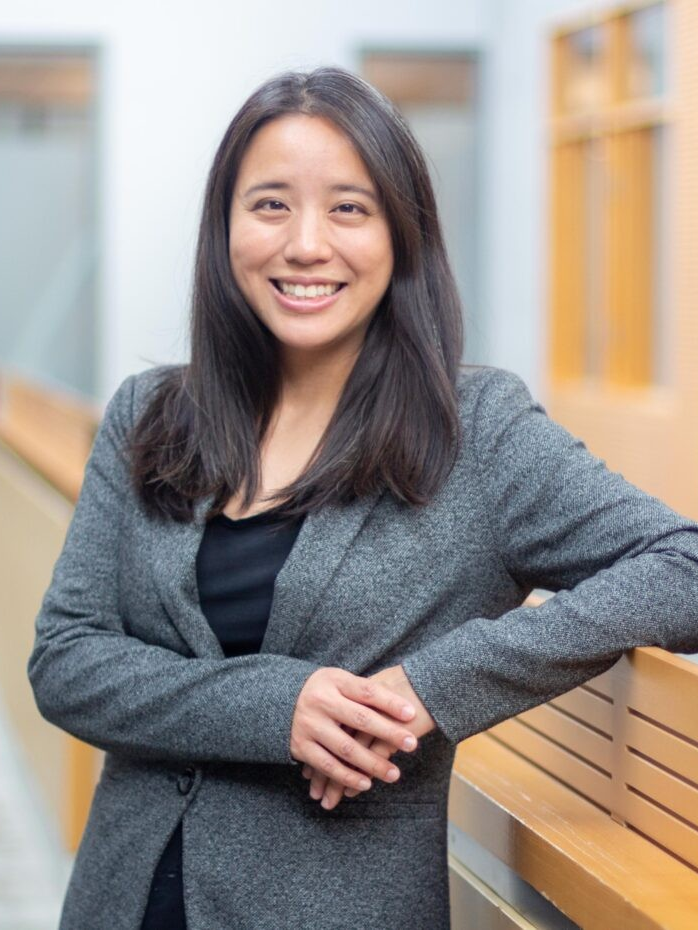
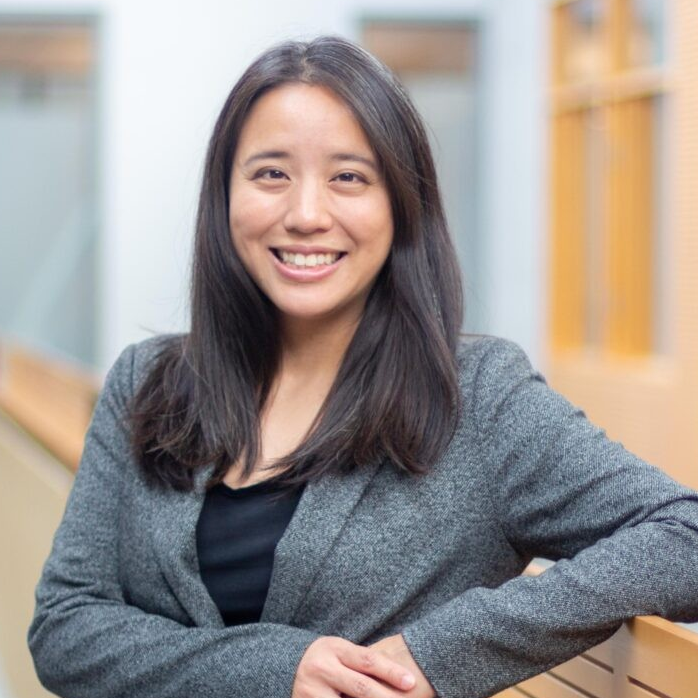
Update schedule, fix timeline and organizer images

diff --git a/_layouts/home.html b/_layouts/home.html
@@ -9,7 +9,5 @@ layout: default
 {% include schedule.html %}
 {% include venues.html %}
 {% include timeline.html %}
-Social Events
-Logistics
 
 {% include contact.html %}
